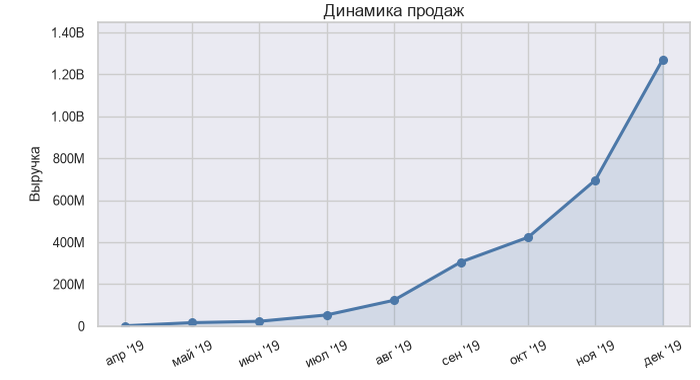
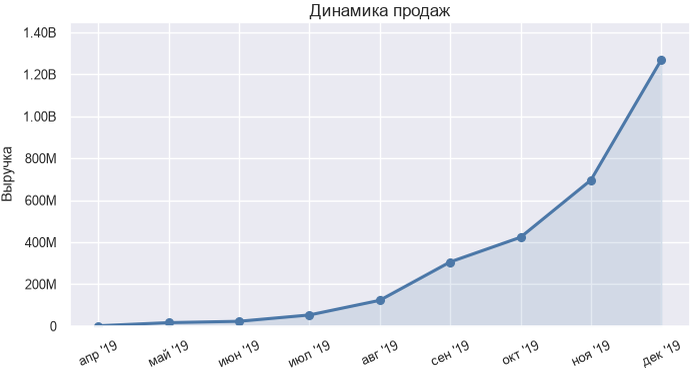
Tighten left margin on marketplace charts without clipping y-labels.

diff --git a/marketplace_sales/make_charts.py b/marketplace_sales/make_charts.py
@@ -1,4 +1,4 @@
-"""Generate marketplace chart PNGs at exactly 700x380 with tight margins."""
+"""Generate marketplace chart PNGs at 700x380 — seaborn darkgrid (white grids), like sporting_store ROC."""
 from pathlib import Path
 
 import matplotlib.pyplot as plt
@@ -11,22 +11,20 @@ OUT = Path(__file__).resolve().parent / "images"
 DPI = 100
 FIGSIZE = (7.0, 3.8)  # 700x380
 TARGET = (700, 380)
-
-AXES_BG = "#EAEAF2"
 FIG_BG = "white"
 BLUE = "#4C78A8"
 BLUE_LIGHT = "#9ECAE1"
 
 
 def style():
-    sns.set_theme(style="whitegrid", context="notebook")
+    # Same as sporting_store: default seaborn theme → darkgrid, white grid lines
+    sns.set_theme()
     plt.rcParams.update(
         {
             "figure.figsize": FIGSIZE,
             "figure.dpi": DPI,
             "savefig.dpi": DPI,
             "figure.facecolor": FIG_BG,
-            "axes.facecolor": AXES_BG,
             "savefig.facecolor": FIG_BG,
             "font.size": 10,
             "axes.titlesize": 12,
@@ -48,7 +46,6 @@ def fmt_money(x, _pos=None):
 
 
 def trim_top(im: Image.Image, keep_pad: int = 4) -> Image.Image:
-    """Crop excess white above the title, then restore 700x380."""
     arr = np.asarray(im.convert("RGB"))
     mask = (arr < 248).any(axis=2)
     ys = np.where(mask.any(axis=1))[0]
@@ -62,8 +59,8 @@ def trim_top(im: Image.Image, keep_pad: int = 4) -> Image.Image:
 
 
 def save_chart(fig, path: Path):
-    # Left margin for y-label; top tight so title sits near the edge
-    fig.subplots_adjust(left=0.14, right=0.985, top=0.93, bottom=0.14)
+    # Left: snug to y-label, no clipping
+    fig.subplots_adjust(left=0.10, right=0.985, top=0.93, bottom=0.14)
     fig.savefig(path, dpi=DPI, facecolor=FIG_BG)
     plt.close(fig)
     im = Image.open(path)
@@ -101,7 +98,6 @@ def sales_dynamics():
 
     fig, ax = plt.subplots(figsize=FIGSIZE, dpi=DPI)
     fig.patch.set_facecolor(FIG_BG)
-    ax.set_facecolor(AXES_BG)
     ax.plot(months, values, marker="o", color=BLUE, linewidth=2.2, markersize=5.5)
     ax.fill_between(months, values, alpha=0.15, color=BLUE)
     ax.set_title("Динамика продаж", fontsize=12, pad=4)
@@ -122,7 +118,6 @@ def category_managers():
 
     fig, ax = plt.subplots(figsize=FIGSIZE, dpi=DPI)
     fig.patch.set_facecolor(FIG_BG)
-    ax.set_facecolor(AXES_BG)
     ax.bar(x - w / 2, fact, w, label="Факт", color=BLUE, zorder=3)
     ax.bar(x + w / 2, plan, w, label="План", color=BLUE_LIGHT, zorder=3)
     ax.set_xticks(x)
@@ -139,23 +134,9 @@ def main():
     OUT.mkdir(parents=True, exist_ok=True)
     sales_dynamics()
     category_managers()
-    # remove old cache-bust names if present
-    for old in ("sales_trend.png", "fact_plan.png"):
-        p = OUT / old
-        if p.exists():
-            p.unlink()
     for name in ("sales_dynamics.png", "plan_vs_fact.png"):
         im = Image.open(OUT / name)
-        arr = np.asarray(im.convert("RGB"))
-        mask = (arr < 250).any(axis=2)
-        ys, xs = np.where(mask)
-        pads = (
-            int(xs.min()),
-            int(ys.min()),
-            im.size[0] - int(xs.max()) - 1,
-            im.size[1] - int(ys.max()) - 1,
-        )
-        print(name, im.size, "pads LTRB", pads)
+        print(name, im.size)
 
 
 if __name__ == "__main__":
